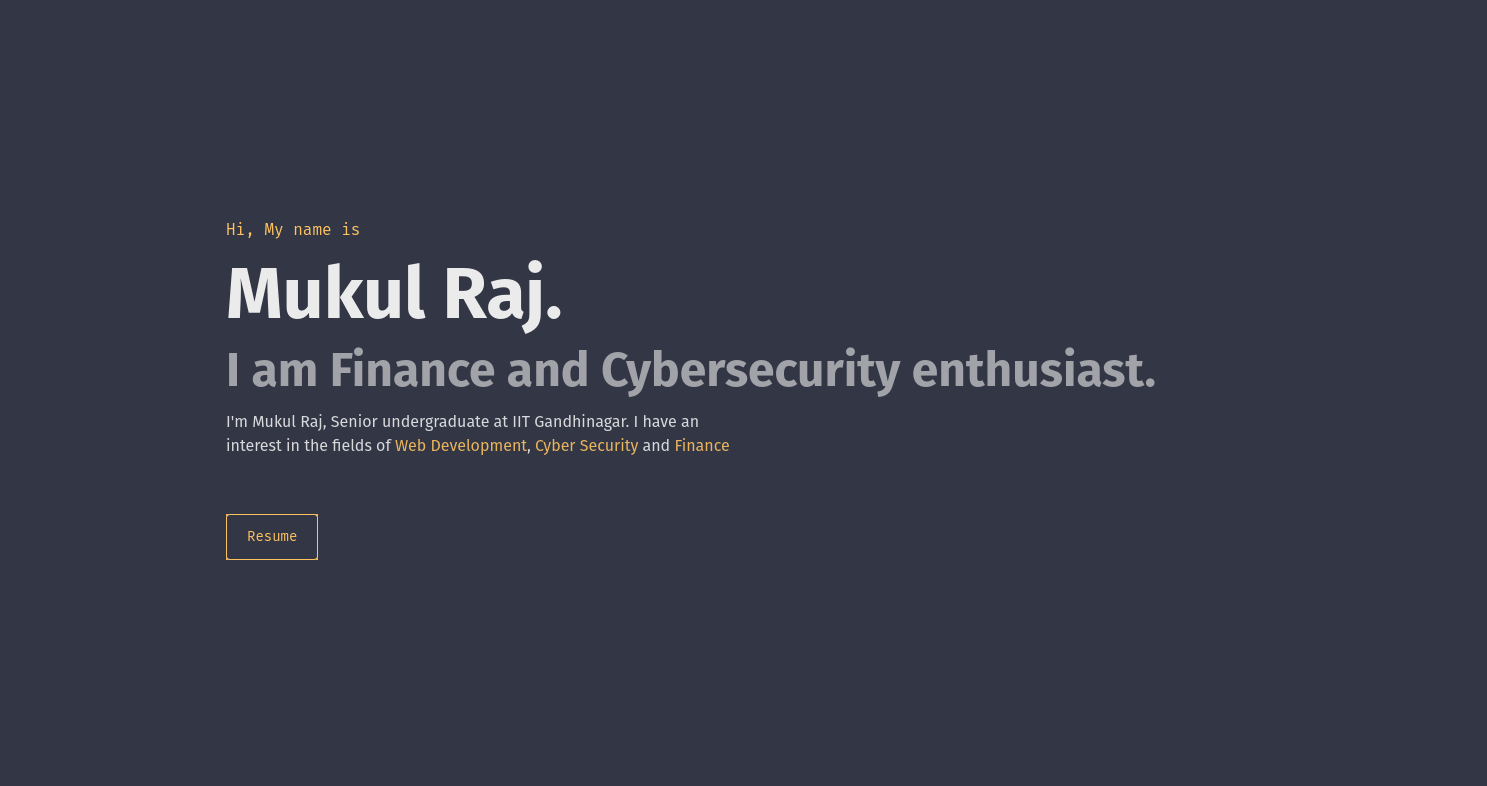
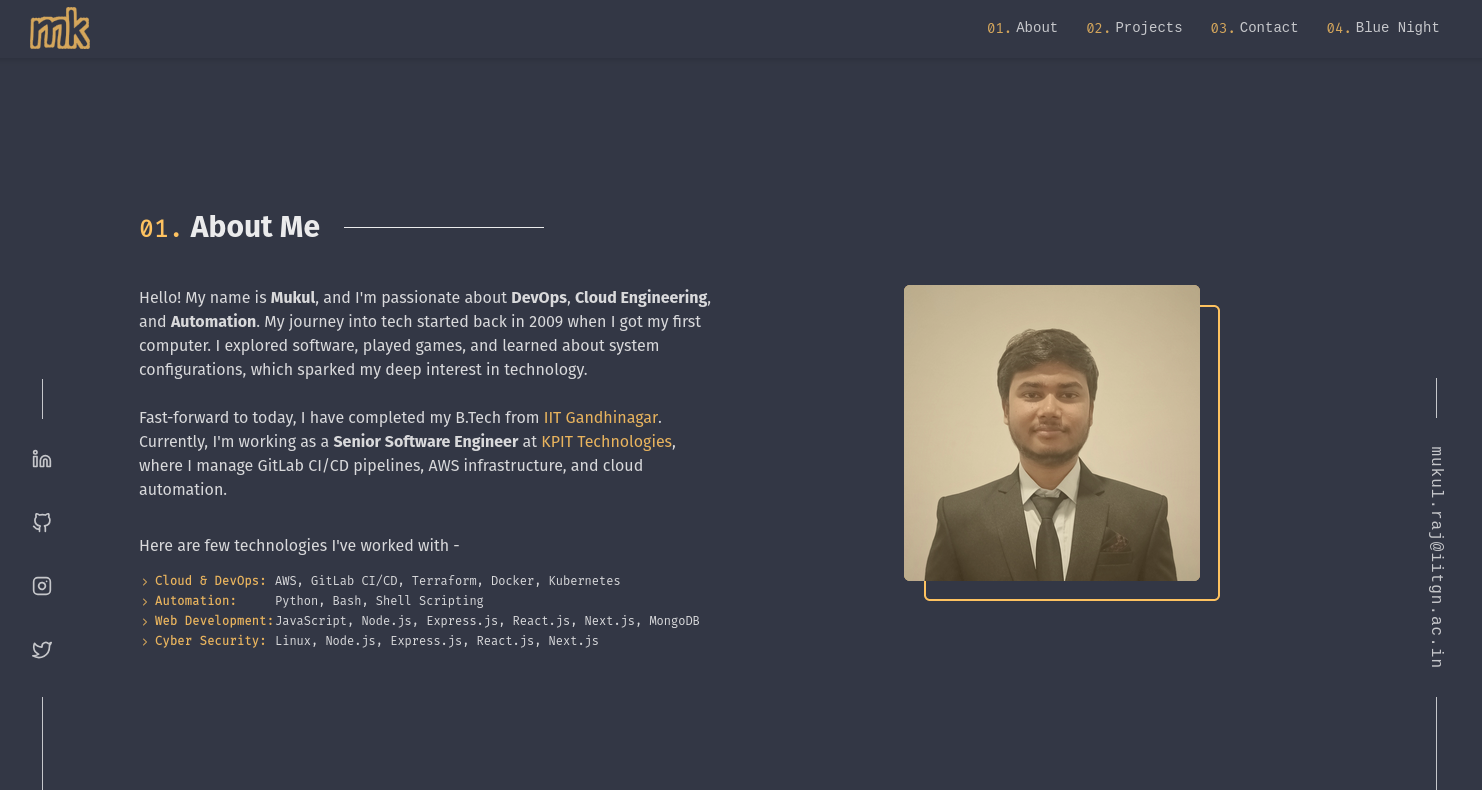
Update skill and change og image

diff --git a/data/skills.js b/data/skills.js
@@ -8,12 +8,12 @@ const skills = [
     tools: "Python, Bash, Shell Scripting"
   },
   {
-    title: "Web Development",
-    tools: "JavaScript, Node.js, Express.js, React.js, Next.js, MongoDB"
+    title: "Cyber Security",
+    tools: "Kali Linux, Burp Suite, Nmap, Wireshark, Maltego, OWASP ZAP, Nikto"
   },
   {
-    title: "Cyber Security",
-    tools: "Linux, Node.js, Express.js, React.js, Next.js"
+    title: "Web Development",
+    tools: "JavaScript, Node.js, Express.js, React.js, Next.js, MongoDB"
   }
 ];
 

diff --git a/data/projects.js b/data/projects.js
@@ -28,10 +28,6 @@ const projects = [
     img: {
       link: "/img/algotrading-result.png",
       alt: "algotrading-result",
-      // link: "/img/algotrading-light.png",
-      // alt: "algotrading-light",
-      // link: "/img/algotrading-dark.png",
-      // alt: "algotrading-dark",
       width: 600,
       height: 360,
     },
